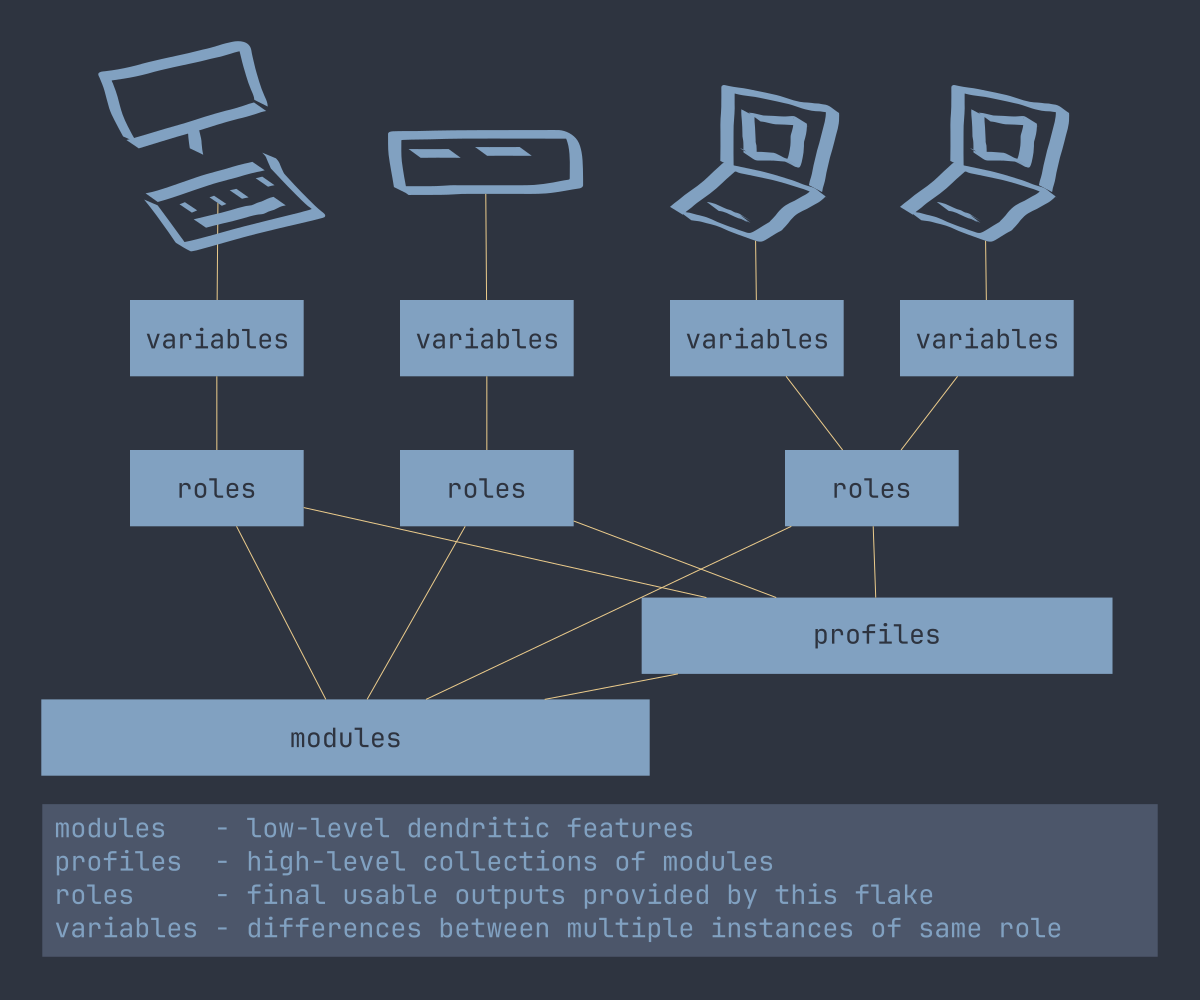
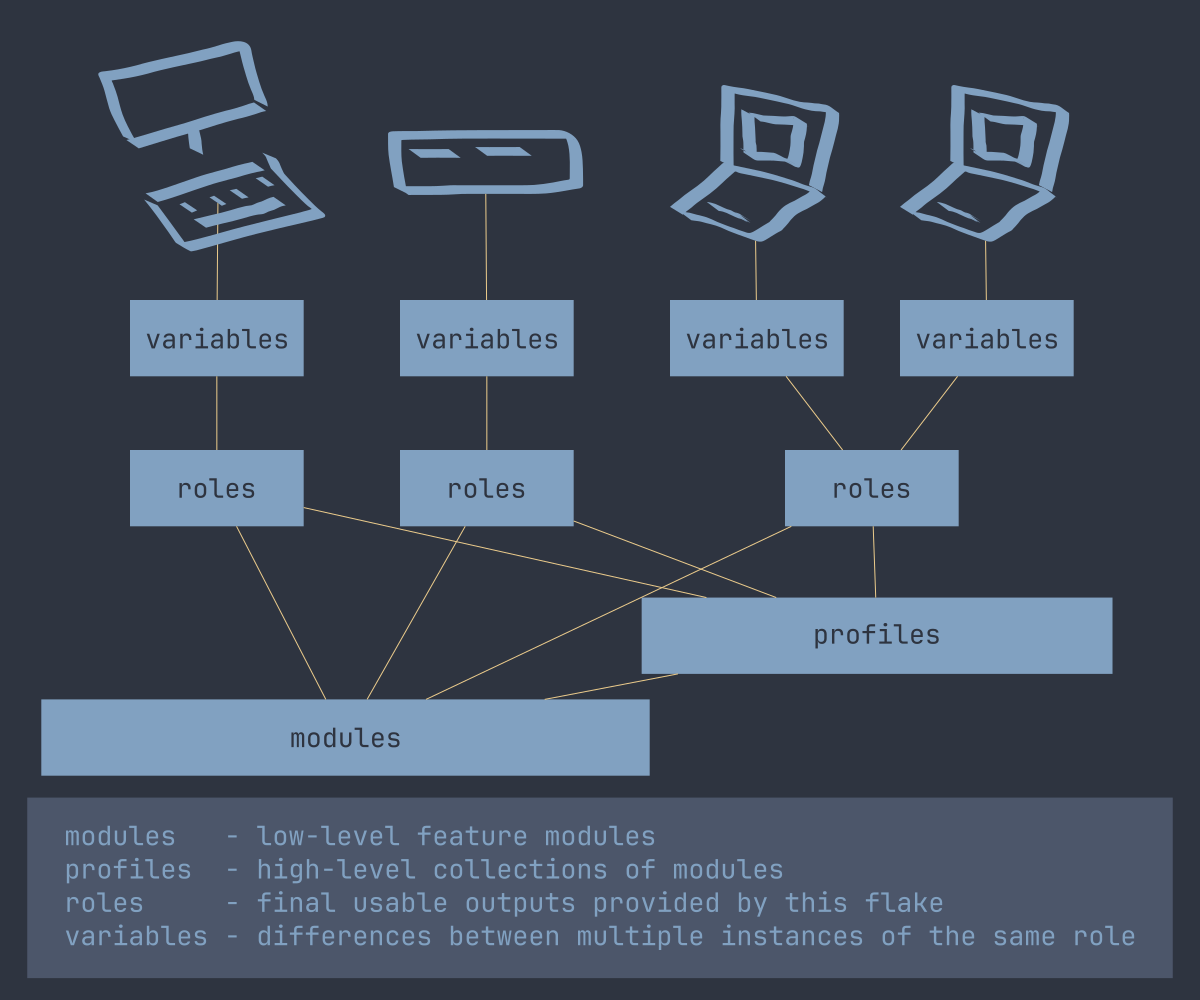
docs: update

Changed region(s): [[0.0, 0.775, 0.9867, 0.992]]

diff --git a/README.md b/README.md
@@ -10,8 +10,7 @@
 
 ![screenshots gif](./doc/screenshots/nord.gif)
 
-~~slightly overengineered~~ dendritic NixOS configuration flake for multiple
-hosts
+~~slightly overengineered~~ NixOS configuration flake for multiple hosts
 
 # Features
 
@@ -22,7 +21,7 @@ hosts
 Nix-specific features:
 
 - Completely reproducible, pure evaluation
-- Role-based outputs with features as dendritic modules
+- Role-based outputs with features as modules
 - Variables system for device-specific configuration
 - [Bespoke CLI](#bespoke-cli) for maintaining this flake
 - Flake-enabled [bootstrap images](#bootstrap-images)
@@ -179,8 +178,8 @@ workflow examples.
 
 ![architecture](./doc/screenshots/architecture.png)
 
-- [`./modules/`](./modules) are low-level dendritic features, which are exposed
-  under `nixosModules.modules.*`.
+- [`./modules/`](./modules) are low-level features, which are exposed under
+  `nixosModules.modules.*`.
 - [`./profiles/`](./profiles) are high-level collections of modules, which are
   exposed under `nixosModules.profiles.*`.
 - [`./roles/`](./roles) are the final outputs provided by this flake, each role

diff --git a/modules/README.md b/modules/README.md
@@ -1,3 +1,3 @@
 # modules
 
-low-level dendritic-esque feature modules
+low-level feature modules
